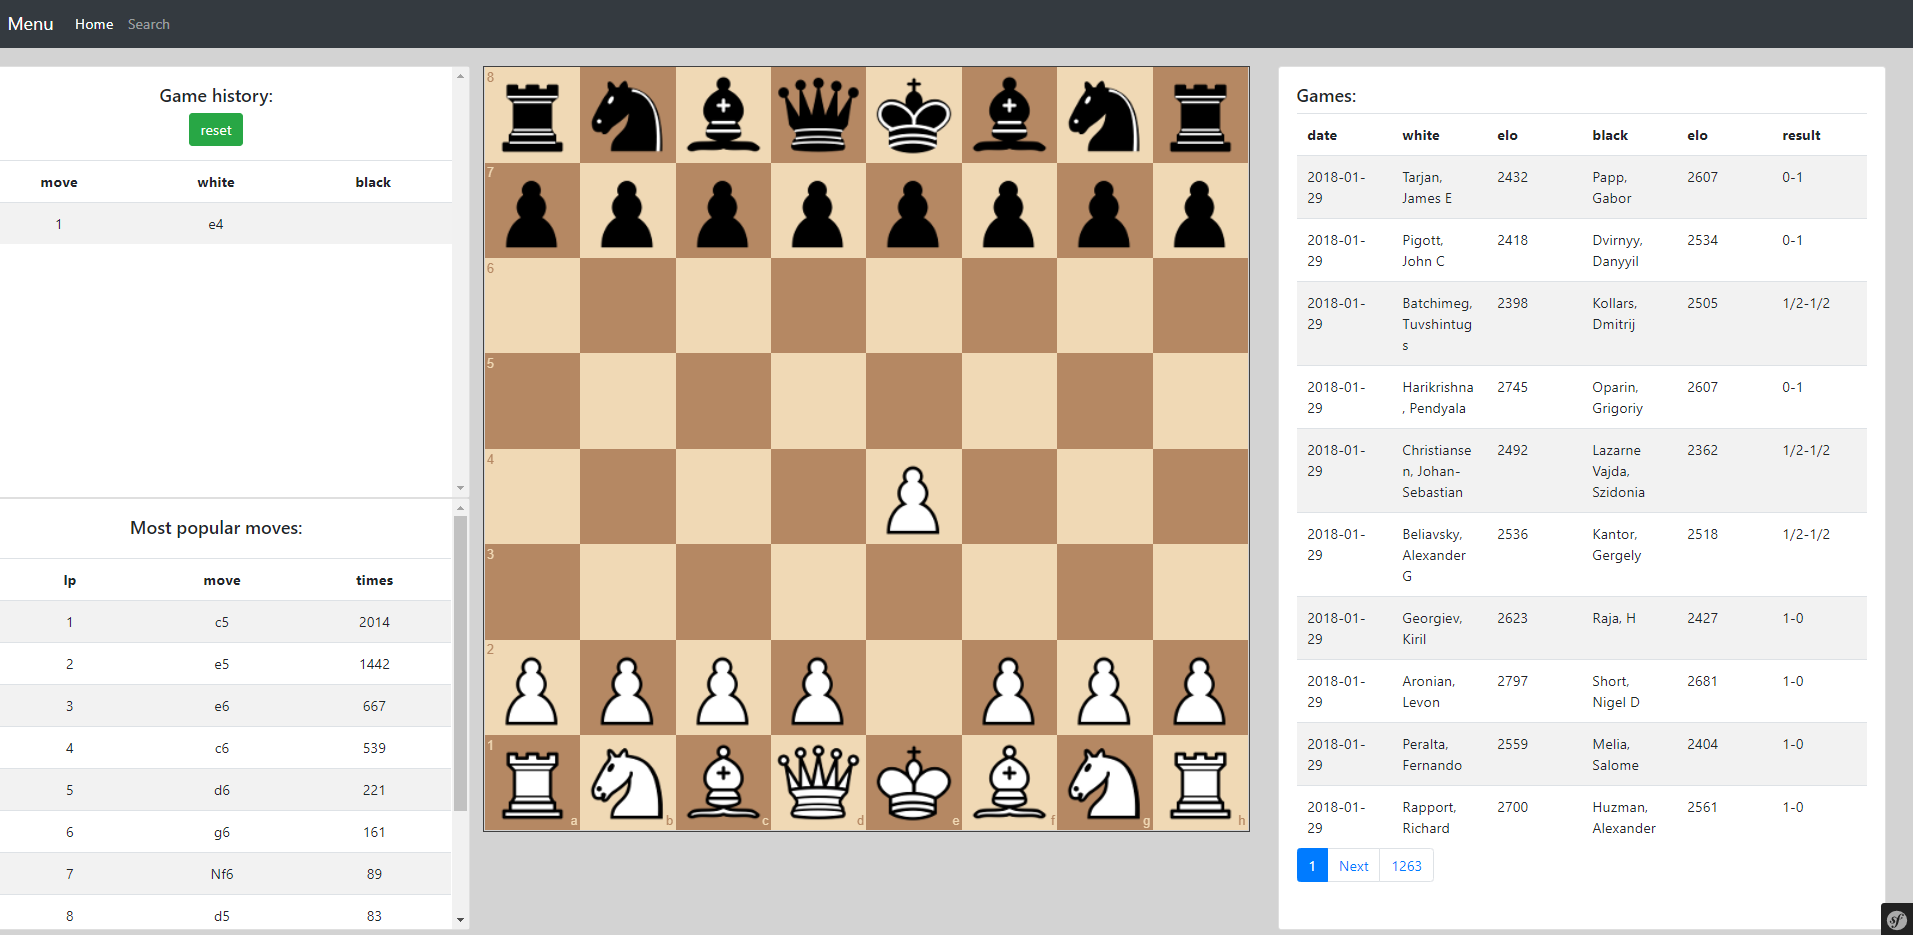
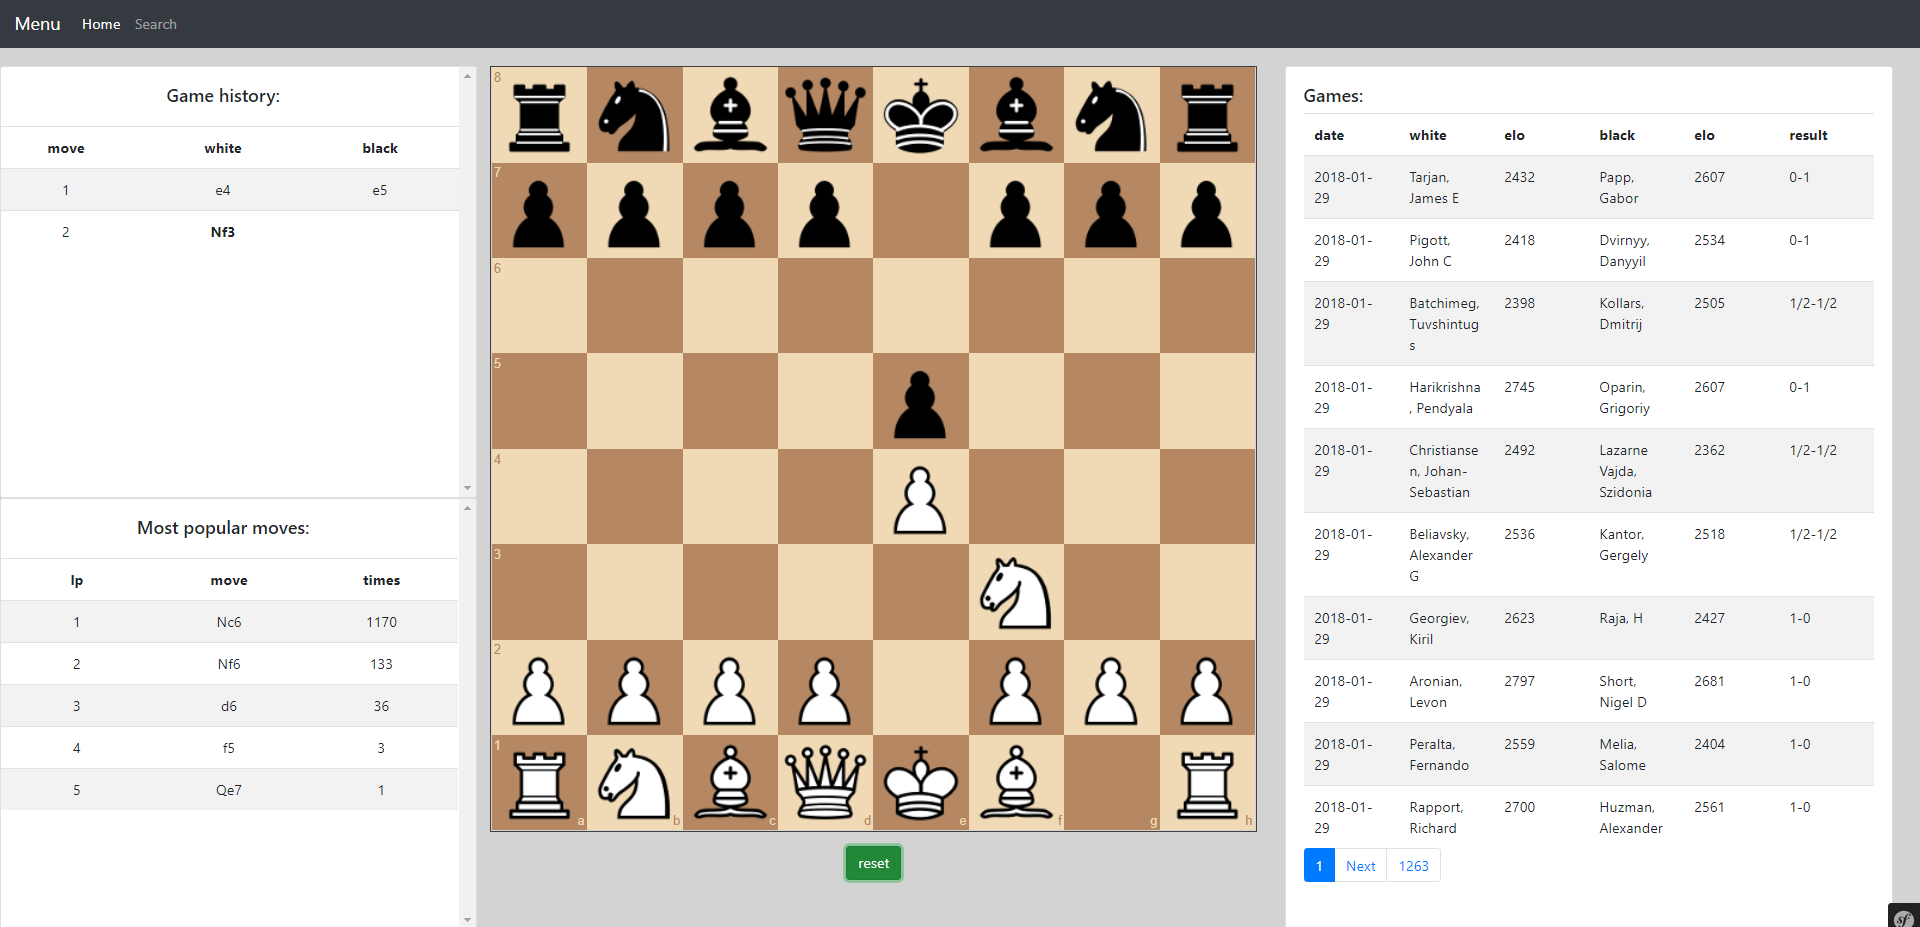
- move history highlighting and moved game navigation buttons below the   chessboard

diff --git a/assets/js/components/GameHistory.vue b/assets/js/components/GameHistory.vue
@@ -4,13 +4,6 @@
     <div class="row">
     <div class="card-body" style="padding-bottom: 15px">
       <h5> Game history:</h5>
-      <div>
-        <span v-if="buttonsVisible">
-        <button class="btn btn-success" id="prevBtn" v-on:click="prevMove">prev</button>
-        <button class="btn btn-success" id="nextBtn" v-on:click="nextMove">next</button>
-        </span>
-        <button class="btn btn-success" id="resetPosition" v-on:click="resetPosition">reset</button>
-      </div>
     </div>
     </div>
 
@@ -27,8 +20,8 @@
       <template v-for="(move, key, index) in pgnArray">
         <tr>
           <td>{{key + 1}}</td>
-          <td>{{move.white}}</td>
-          <td>{{move.black}}</td>
+          <td :class="{ activeMove: (activeMove == move.idWhite) }">{{move.white}}</td>
+          <td :class="{ activeMove: (activeMove == move.idBlack) }">{{move.black}}</td>
         </tr>
       </template>
 
@@ -40,7 +33,6 @@
 </template>
 
 <script>
-import Store from "../store/store";
 import * as Chess from "../../chess";
 
 export default {
@@ -52,8 +44,11 @@ export default {
     }
   },
   computed: {
+    activeMove: function () {
+      return this.$store.getters.activeMove;
+    },
     currentGameState: function () {
-      return this.$store.getters.getPgn
+      return this.$store.getters.getPgn;
     },
     buttonsVisible: function () {
       return this.$store.getters.getMovePositionButtonsVisible;
@@ -62,22 +57,21 @@ export default {
       let game = new Chess();
       var resultArray = [];
       let pgn = this.$store.getters.getPgn;
-      let result = '';
 
       if (pgn) {
         game.load_pgn(pgn);
 
         let history = game.history({verbose: true});
-        let result = game.result;
-
+        let gameHeaders = game.header();
+        let gameResult = gameHeaders.Result;
         let turn = 1;
 
         for (var i=0; i<history.length; i++) {
             //white
             if (i % 2 == 0) {
               var move = {};
+              move.idWhite = i;
               move.turn = turn;
-
               move.white = history[i].san;
 
               if (i == history.length - 1) {
@@ -88,11 +82,35 @@ export default {
             //black
             else
             {
+              move.idBlack = i;
               move.black = history[i].san;
 
               resultArray.push(move);
               turn++;
             }
+        }
+
+        let lastIndexInMoveArray = resultArray[resultArray.length - 1];
+
+        if (lastIndexInMoveArray) {
+          //last move is black
+          if (lastIndexInMoveArray.black) {
+            this.$store.dispatch('setActiveMove', lastIndexInMoveArray.idBlack);
+
+            if (gameResult){
+              var move = {};
+              move.turn = turn;
+              move.white = gameResult;
+              resultArray.push(move);
+            }
+
+          }
+          //last move is white
+          else
+          {
+            this.$store.dispatch('setActiveMove', lastIndexInMoveArray.idWhite);
+            if (gameResult) move.black = gameResult;
+          }
         }
       }
 
@@ -100,16 +118,7 @@ export default {
     }
   },
   methods: {
-    prevMove: function (event) {
-        this.$store.dispatch('prevMove')
-    },
-    nextMove: function (event) {
-        this.$store.dispatch('nextMove')
-    },
-    resetPosition: function (event) {
-      this.$store.dispatch('resetPosition')
-      this.$store.dispatch('setMoveButtons', false);
-    },
+
   },
 };
 </script>

diff --git a/assets/js/store/store.js b/assets/js/store/store.js
@@ -9,7 +9,7 @@ import * as Ajax from "../modules/ajaxCalls";
 
 Vue.use(Vuex)
 
-export async function fetchUsers (opts) {
+export async function fetchGames (opts) {
     const games = await window.fetch(`/get_paginated_games?page=${opts.page}&limit=${opts.pageSize}`)
         .then(response => {
             return response.json();
@@ -36,7 +36,9 @@ export default new Vuex.Store({
         possibleMoves: [],
         fen: '',
         test: 1,
-        movePositionButtonsVisible: false
+        movePositionButtonsVisible: false,
+        activeMove: null,
+        activeGameRow: null
     },
     getters: {
         getPgn (state) {
@@ -56,6 +58,12 @@ export default new Vuex.Store({
         },
         getMovePositionButtonsVisible (state) {
             return state.movePositionButtonsVisible;
+        },
+        activeMove (state) {
+            return state.activeMove;
+        },
+        activeGameRow (state) {
+            return state.activeGameRow;
         }
     },
     mutations: {
@@ -77,8 +85,7 @@ export default new Vuex.Store({
         },
         setInitGame (state) {
             state.game = new Chess();
-                state.game.load('rnbqkbnr/pppppppp/8/8/8/8/PPPPPPPP/RNBQKBNR w KQkq - 0 1');
-
+            state.game.load('rnbqkbnr/pppppppp/8/8/8/8/PPPPPPPP/RNBQKBNR w KQkq - 0 1');
         },
         changeBoardPosition(state, fen) {
             state.board.position(fen);
@@ -93,6 +100,18 @@ export default new Vuex.Store({
         },
         saveFen(state, fen) {
             state.fen = fen;
+        },
+        incrementActiveMove(state) {
+            state.activeMove = state.activeMove + 1;
+        },
+        decrementActiveMove(state) {
+            state.activeMove = state.activeMove - 1;
+        },
+        setActiveMove(state, move) {
+            state.activeMove = move;
+        },
+        setActiveGameRow(state, row) {
+            state.activeGameRow = row;
         },
     },
     actions: {
@@ -122,6 +141,18 @@ export default new Vuex.Store({
         },
         setMoveButtons(state, flag) {
             state.commit('setMoveButtons', flag);
+        },
+        incrementActiveMove(state) {
+            state.commit('incrementActiveMove');
+        },
+        decrementActiveMove(state) {
+            state.commit('decrementActiveMove');
+        },
+        setActiveMove(state, move) {
+            state.commit('setActiveMove', move);
+        },
+        setActiveGameRow(state, row) {
+            state.commit('setActiveGameRow', row);
         }
     }
 })

diff --git a/assets/js/components/GameTable.vue b/assets/js/components/GameTable.vue
@@ -20,7 +20,7 @@
         </thead>
         <tbody>
           <template v-for="game in gamesDb.items">
-            <tr v-on:click="loadGame" :data-pgn="game.pgn" :data-id="game.id" :v-bind:class="{ activeRow: isActive }">
+            <tr v-on:click="loadGame" :data-pgn="game.pgn" :data-id="game.id" :class="{ activeGame: (activeGameRow == game.id) }">
               <td>{{game.date}}</td>
               <td>{{game.white}}</td>
               <td>{{game.whiteElo}}</td>
@@ -58,18 +58,15 @@ export default {
       games: [],
       errors: [],
       activeFirst: true,
-      activeLast: false,
-      isActive: false
+      activeLast: false
     }
   },
   methods: {
     loadGame: function (event) {
-      this.isActive = true;
-
       let id = event.currentTarget.getAttribute('data-id');
-      Func.makeSelectedGameBold(id);
-
       let pgn = event.currentTarget.getAttribute('data-pgn');
+
+      this.$store.dispatch('setActiveGameRow', id);
       this.$store.commit('changePgn', pgn);
       this.$store.commit('calculateFen', pgn);
 
@@ -115,8 +112,8 @@ export default {
       page: 1,
       pageSize: 10
     }),
-    activeRow: function (event) {
-      console.log(event);
+    activeGameRow: function () {
+      return this.$store.getters.activeGameRow;
     },
   },
   mounted () {

diff --git a/assets/js/components/GameButtons.vue b/assets/js/components/GameButtons.vue
@@ -1,0 +1,41 @@
+<template>
+    <div class="well text-center gameNavigationButtons">
+        <span v-if="buttonsVisible">
+          <button class="btn btn-success" id="prevBtn" v-on:click="prevMove">prev</button>
+          <button class="btn btn-success" id="nextBtn" v-on:click="nextMove">next</button>
+        </span>
+
+        <button class="btn btn-success" id="resetPosition" v-on:click="resetPosition">reset</button>
+    </div>
+</template>
+
+<script>
+export default {
+  name: "GameButtons",
+  data: function () {
+    return {
+
+    }
+  },
+  computed: {
+    buttonsVisible: function () {
+      return this.$store.getters.getMovePositionButtonsVisible;
+    },
+  },
+  methods: {
+    prevMove: function (event) {
+      this.$store.dispatch('decrementActiveMove')
+      this.$store.dispatch('prevMove')
+    },
+    nextMove: function (event) {
+      this.$store.dispatch('incrementActiveMove')
+      this.$store.dispatch('nextMove')
+    },
+    resetPosition: function (event) {
+      this.$store.dispatch('resetPosition')
+      this.$store.dispatch('setMoveButtons', false);
+      this.$store.dispatch('setActiveGameRow', null);
+    },
+  },
+};
+</script>

diff --git a/assets/js/components/App.vue b/assets/js/components/App.vue
@@ -10,6 +10,7 @@
       </div>
       <div class="col-sm-5 col-md-5 col-xs-12">
         <div id="board"></div>
+        <GameButtons/>
       </div>
       <div class="col-sm-4 col-md-4 col-lg-4">
         <GameTable/>
@@ -25,6 +26,7 @@
 import GameHistory from './GameHistory.vue'
 import GameTable from './GameTable.vue'
 import PossibleMoves from "./PossibleMoves";
+import GameButtons from "./GameButtons";
 import * as Func from '../modules/functions.js';
 import * as Ajax from '../modules/ajaxCalls.js';
 
@@ -41,7 +43,8 @@ export default {
   components: {
     PossibleMoves,
     GameHistory,
-    GameTable
+    GameTable,
+    GameButtons
   },
   methods: {},
   mounted: function () {

diff --git a/assets/js/game.js b/assets/js/game.js
@@ -7,19 +7,14 @@ import Vue from 'vue';
 import Vuex from 'vuex'
 import App from './components/App.vue'
 
-import GameHistory from './components/GameHistory.vue'
-import GameTable from './components/GameTable.vue'
 import store from './store/store.js'
-import { createInstance } from 'vuex-pagination'
-import { fetchUsers } from './store/store.js'
+import { fetchGames } from './store/store.js'
 import { PaginationPlugin, createResource } from 'vuex-pagination'
 
 Vue.use(Vuex)
 Vue.use(PaginationPlugin)
 
-const chessObj = new Chess();
-
-createResource('games', fetchUsers);
+createResource('games', fetchGames);
 
 new Vue({
     el: '#app',

diff --git a/assets/js/modules/functions.js b/assets/js/modules/functions.js
@@ -42,8 +42,3 @@ export function onSnapEnd () {
 
     store.state.board.position(game.fen());
 }
-
-export function makeSelectedGameBold(id) {
-    $("tr").removeClass('activeGame');
-    $("tr[data-id='" + id +"']").addClass('activeGame');
-}

diff --git a/assets/styles/app.css b/assets/styles/app.css
@@ -36,3 +36,11 @@ body {
 .activeGame {
     font-weight: bold;
 }
+
+.activeMove {
+    font-weight: bold;
+}
+
+.gameNavigationButtons {
+    padding-top: 15px;
+}
